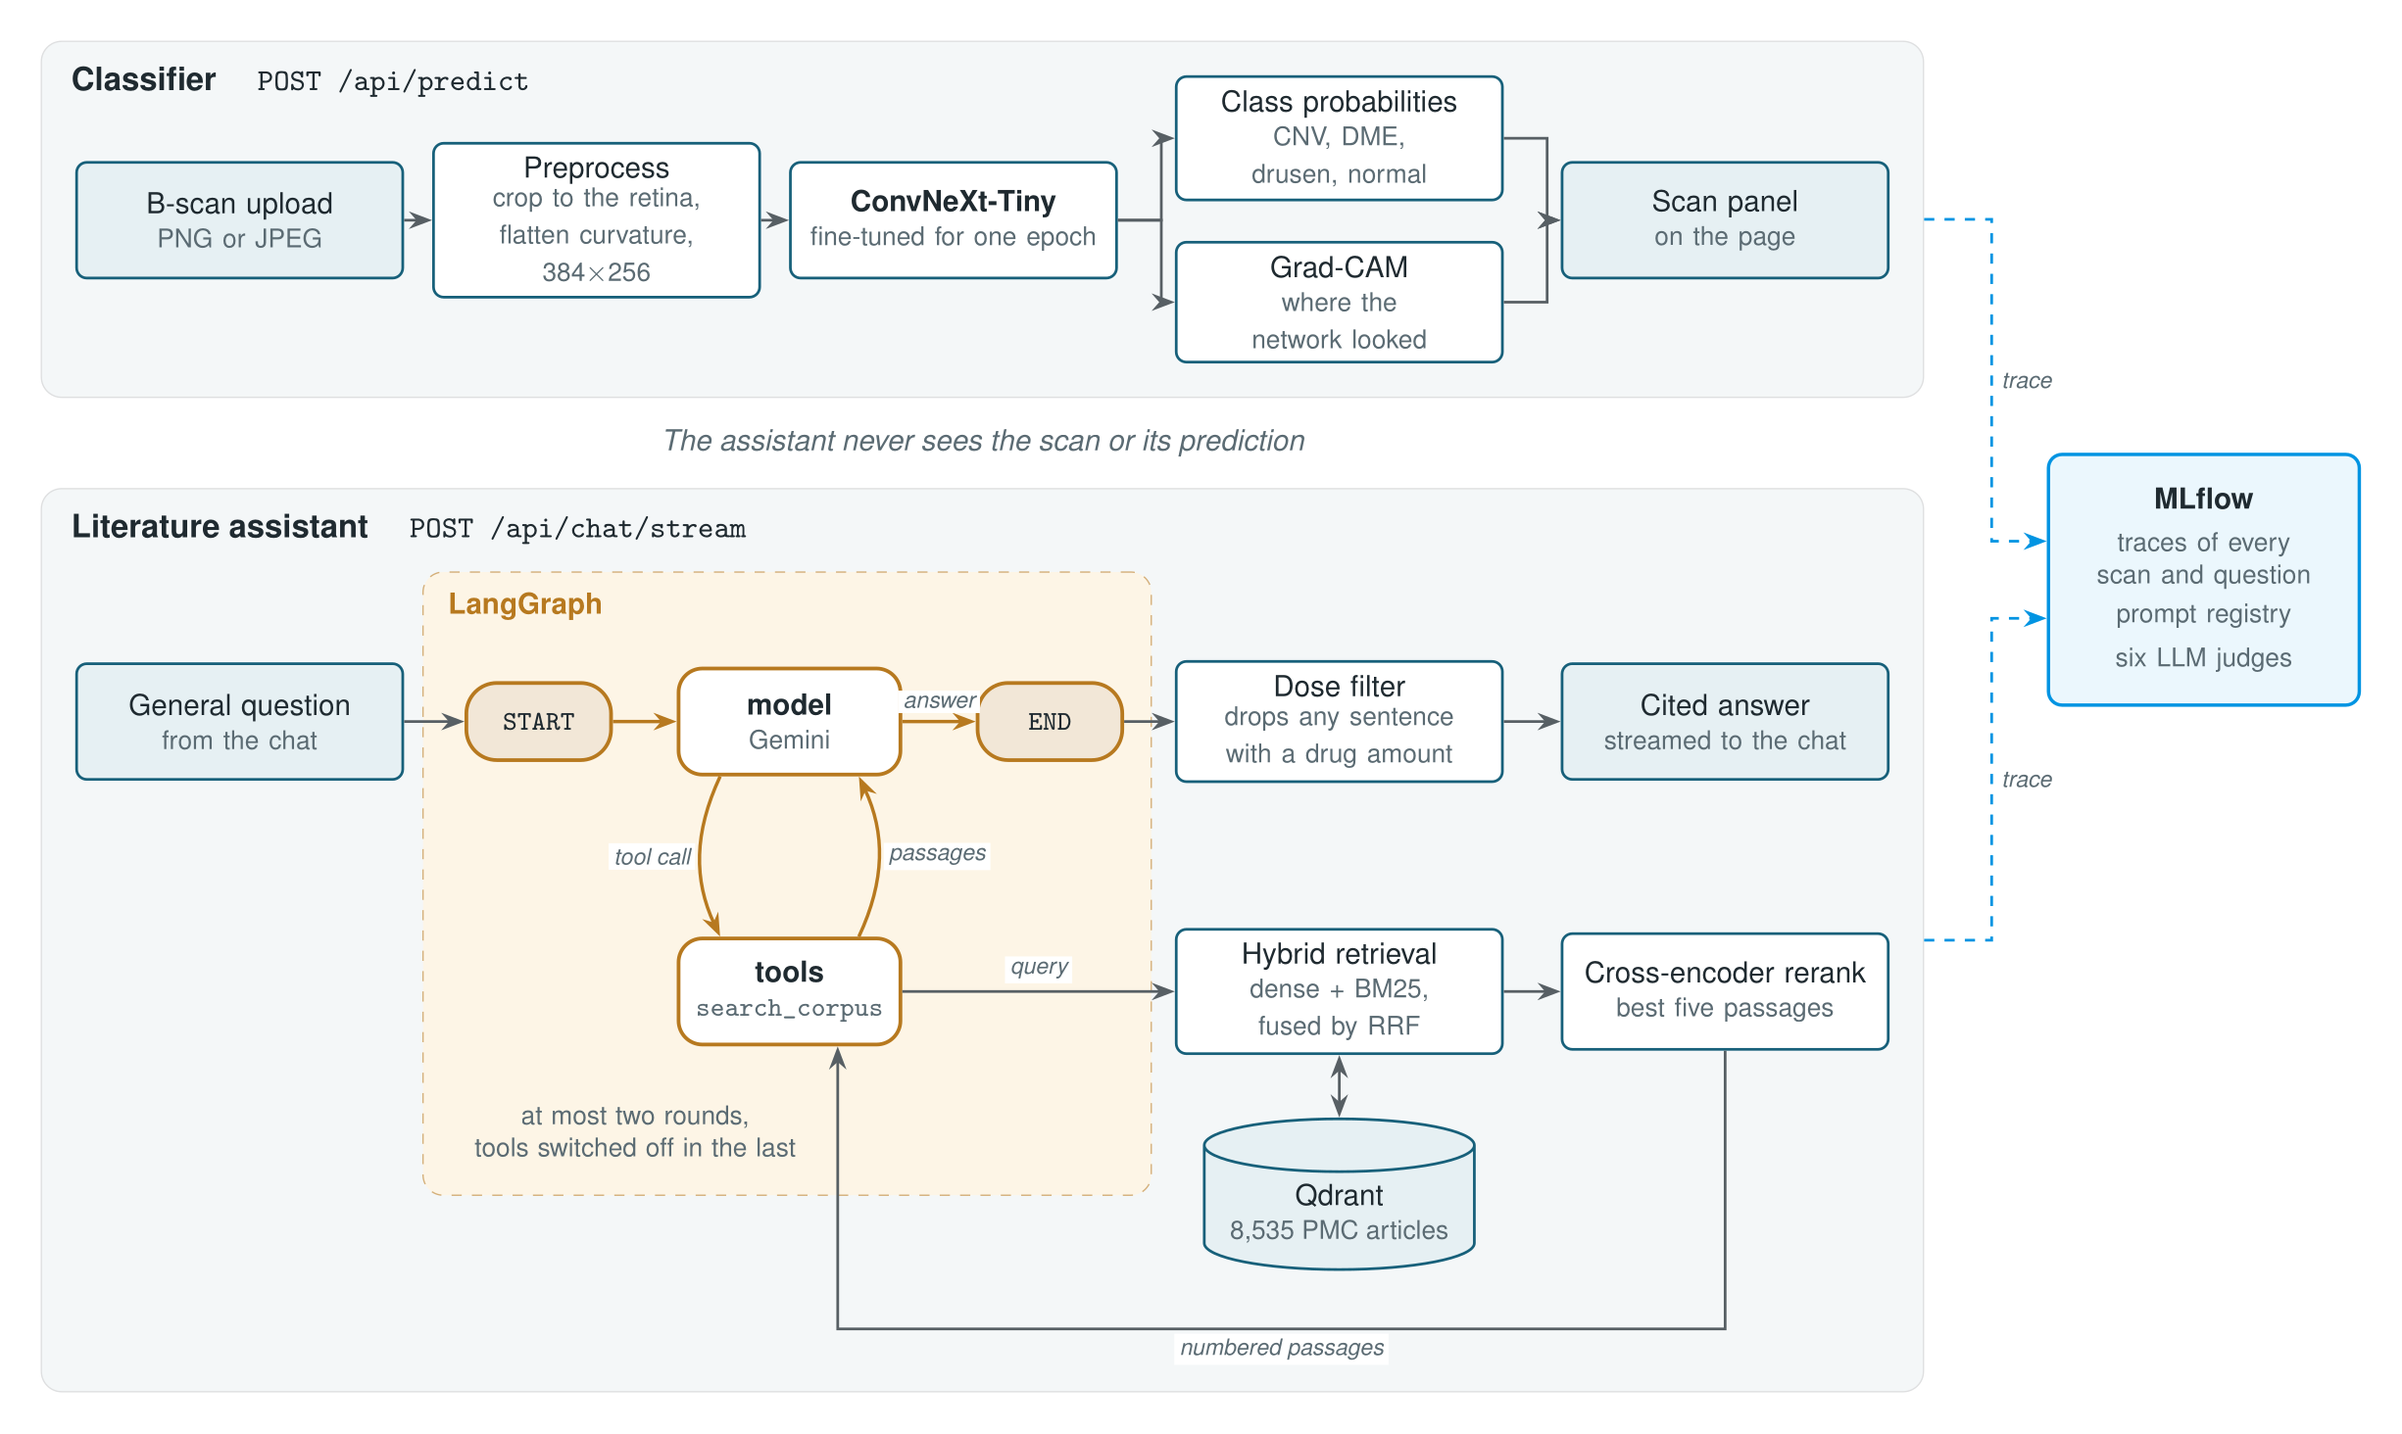
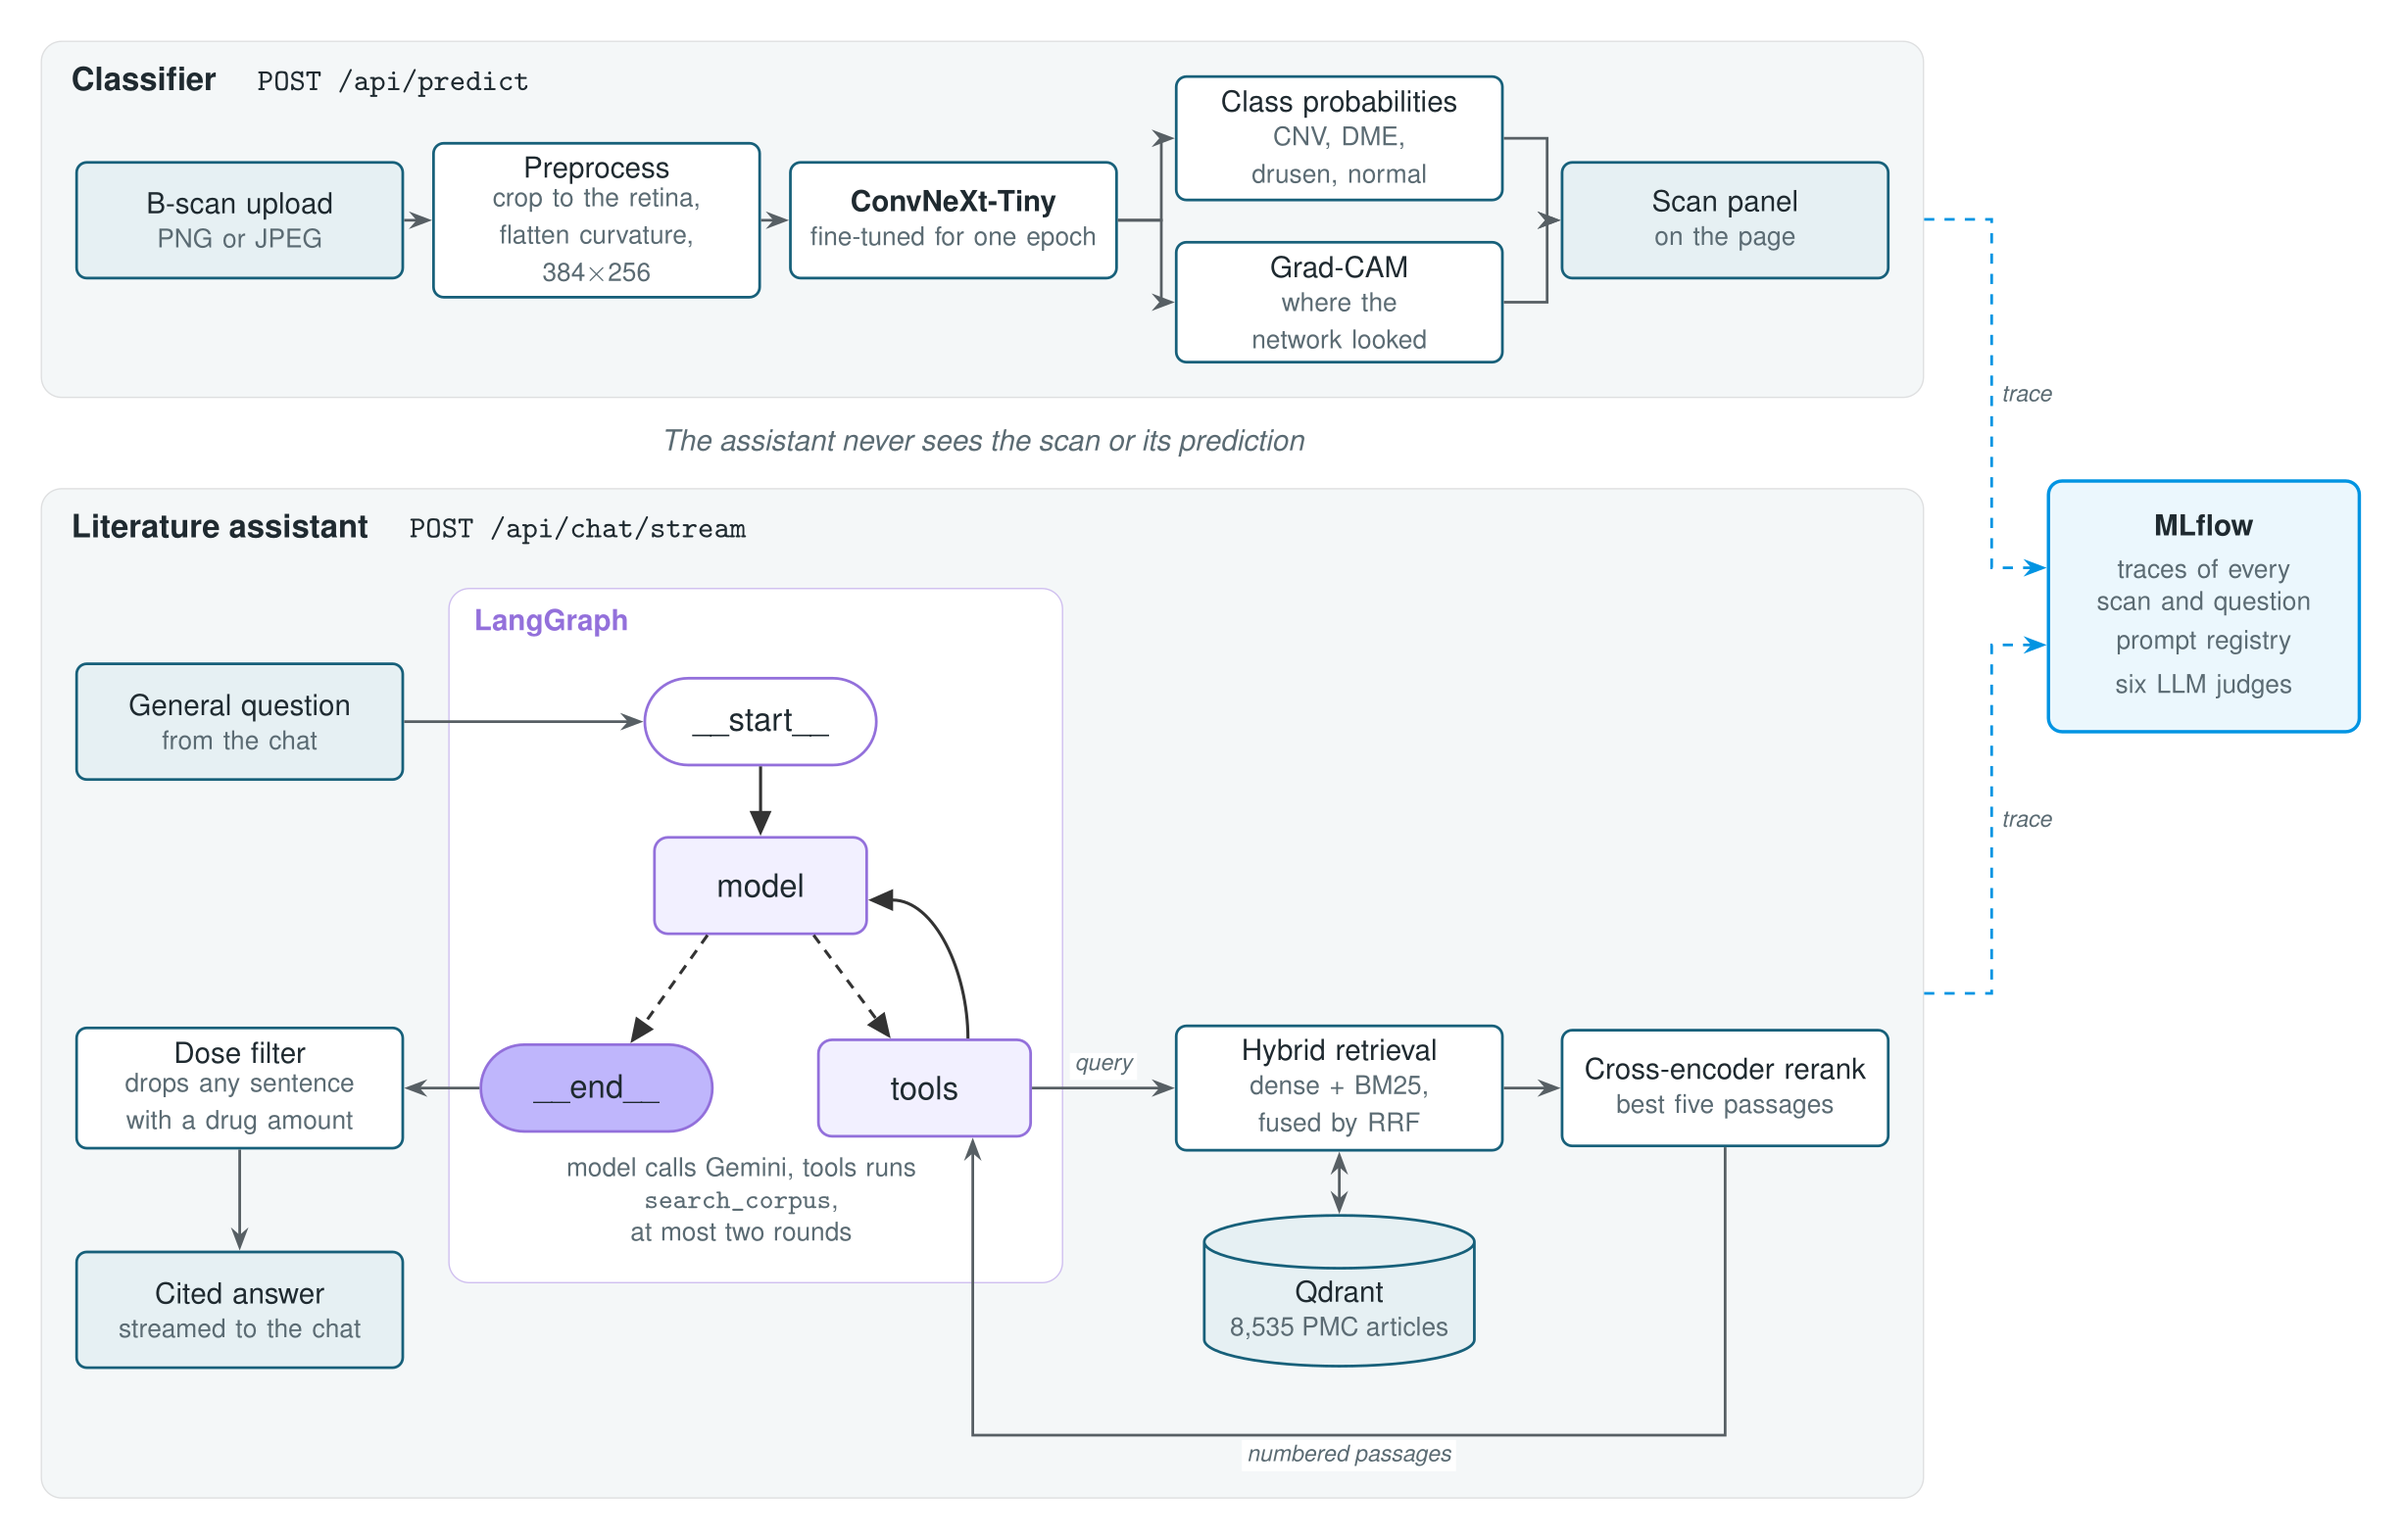
docs(readme): draw the LangGraph block the way LangGraph draws its graph

diff --git a/docs/architecture.tex b/docs/architecture.tex
@@ -15,8 +15,11 @@
 \definecolor{ink}{HTML}{1F2A30}
 \definecolor{muted}{HTML}{5B6B73}
 \definecolor{lane}{HTML}{F4F7F8}
-\definecolor{graph}{HTML}{B7791F}
-\definecolor{graphsoft}{HTML}{FDF5E6}
+% LangGraph's own drawing, as get_graph().draw_mermaid() styles it
+\definecolor{lgnode}{HTML}{F2F0FF}
+\definecolor{lgend}{HTML}{BFB6FC}
+\definecolor{lgline}{HTML}{9370DB}
+\definecolor{lgedge}{HTML}{333333}
 \definecolor{mlflow}{HTML}{0194E2}
 
 % The smaller grey line under a box's title
@@ -28,12 +31,14 @@
               inner sep=4pt, minimum height=12mm, text width=31mm, font=\small},
   io/.style={box, fill=accentsoft},
   note/.style={font=\footnotesize, text=muted},
-  gnode/.style={draw=graph, line width=1.1pt, rounded corners=7pt, fill=white, align=center,
-                minimum height=11mm, minimum width=23mm, font=\small},
-  term/.style={draw=graph, line width=1.1pt, rounded corners=9pt, fill=graph!18,
-               minimum height=8mm, minimum width=15mm, font=\footnotesize\ttfamily\bfseries},
+  gnode/.style={draw=lgline, line width=0.8pt, rounded corners=4pt, fill=lgnode, align=center,
+                minimum height=10mm, minimum width=22mm, font=\normalsize},
+  term/.style={draw=lgline, line width=0.8pt, rounded corners=4.5mm, fill=white,
+               minimum height=9mm, minimum width=24mm, font=\normalsize},
   arr/.style={-{Stealth[length=2.4mm]}, line width=0.8pt, draw=ink!75},
-  garr/.style={-{Stealth[length=2.4mm]}, line width=1pt, draw=graph},
+  % a fixed edge is solid, a conditional one dotted, as LangGraph draws them
+  garr/.style={-{Triangle[length=2.6mm, width=2.2mm]}, line width=0.9pt, draw=lgedge},
+  gcond/.style={garr, dash pattern=on 3pt off 2.5pt},
   lbl/.style={font=\scriptsize\itshape, text=muted, fill=white, inner sep=1.5pt},
   lanebox/.style={fill=lane, draw=ink!15, rounded corners=6pt, inner sep=10pt},
   lanetitle/.style={font=\bfseries, anchor=north west},
@@ -58,57 +63,58 @@
 \draw[arr] (cam.east) -- ++(0.45,0) |- (scanui.west);
 
 %% ---------------------------------------------------------------- assistant
+% The graph as LangGraph itself draws it (get_graph().draw_mermaid()): top to
+% bottom, __start__ to model, a dotted conditional edge from model to tools and to
+% __end__, and a solid edge from tools back to model.
 \node[io]   (q)     at (0,-5.2)    {General question\\[-1pt]{\sub from the chat}};
-\node[term] (start) at (3.1,-5.2)  {START};
-\node[gnode](model) at (5.7,-5.2)  {\textbf{model}\\[-1pt]{\sub Gemini}};
-\node[gnode](tools) at (5.7,-8.0)  {\textbf{tools}\\[-1pt]{\sub\ttfamily search\_corpus}};
-\node[term] (end)   at (8.4,-5.2)  {END};
+\node[term] (start) at (5.4,-5.2)  {\_\_start\_\_};
+\node[gnode](model) at (5.4,-6.9)  {model};
+\node[term, fill=lgend] (end) at (3.7,-9.0) {\_\_end\_\_};
+\node[gnode](tools) at (7.1,-9.0)  {tools};
 
-\draw[arr]  (q) -- (start);
-\draw[garr] (start) -- (model);
-\draw[garr] (model.south west) ++(0.45,0) coordinate (ms)
-            (ms) to[bend right=25] node[lbl, left=1pt] {tool call} ($(tools.north west)+(0.45,0)$);
-\draw[garr] ($(tools.north east)+(-0.45,0)$) to[bend right=25] node[lbl, right=1pt] {passages}
-            ($(model.south east)+(-0.45,0)$);
-\draw[garr] (model) -- node[lbl, above=2pt] {answer} (end);
+\draw[arr]   (q) -- (start);
+\draw[garr]  (start) -- (model);
+\draw[gcond] ($(model.south)+(-0.55,0)$) -- ($(end.north)+(0.35,0)$);
+\draw[gcond] ($(model.south)+(0.55,0)$) -- ($(tools.north)+(-0.35,0)$);
+\draw[garr]  ($(tools.north)+(0.45,0)$) to[out=90, in=0] ($(model.east)+(0,-0.15)$);
 
-\node[box]  (dose)  at (11.4,-5.2) {Dose filter\\[-1pt]{\sub drops any sentence\\with a drug amount}};
-\node[io]   (ans)   at (15.4,-5.2) {Cited answer\\[-1pt]{\sub streamed to the chat}};
+\node[note, align=center, text width=38mm] (rounds) at (5.2,-10.15)
+     {model calls Gemini, tools runs\\\texttt{search\_corpus}, at most two rounds};
+
+\node[box]  (dose)  at (0,-9.0)   {Dose filter\\[-1pt]{\sub drops any sentence\\with a drug amount}};
+\node[io]   (ans)   at (0,-11.3)  {Cited answer\\[-1pt]{\sub streamed to the chat}};
 \draw[arr] (end) -- (dose);
 \draw[arr] (dose) -- (ans);
 
 % the retrieval behind the tools node
-\node[box] (hybrid) at (11.4,-8.0)  {Hybrid retrieval\\[-1pt]{\sub dense + BM25, fused by RRF}};
-\node[box] (rerank) at (15.4,-8.0) {Cross-encoder rerank\\[-1pt]{\sub best five passages}};
+\node[box] (hybrid) at (11.4,-9.0)  {Hybrid retrieval\\[-1pt]{\sub dense + BM25, fused by RRF}};
+\node[box] (rerank) at (15.4,-9.0) {Cross-encoder rerank\\[-1pt]{\sub best five passages}};
 \node[cylinder, shape border rotate=90, aspect=0.22, draw=accent, line width=0.8pt, fill=accentsoft,
       minimum width=28mm, minimum height=13mm, align=center, font=\small]
-      (qdrant) at (11.4,-10.3) {Qdrant\\[-1pt]{\sub 8,535 PMC articles}};
+      (qdrant) at (11.4,-11.3) {Qdrant\\[-1pt]{\sub 8,535 PMC articles}};
 
 \draw[arr] (tools) -- node[lbl, above=2pt] {query} (hybrid);
 \draw[arr] (hybrid) -- (rerank);
 \draw[arr, {Stealth[length=2.4mm]}-{Stealth[length=2.4mm]}] (hybrid) -- (qdrant);
 % the passages go back to the tools node below Qdrant, so no line crosses it
-\draw[arr] (rerank.south) -- (15.4,-11.5) -| node[lbl, pos=0.25, below=1pt] {numbered passages}
+\draw[arr] (rerank.south) -- (15.4,-12.6) -| node[lbl, pos=0.25, below=1pt] {numbered passages}
            ($(tools.south)+(0.5,0)$);
-
-\node[note, align=center, text width=36mm] (rounds) at (4.1,-9.45)
-     {at most two rounds,\\tools switched off in the last};
 
 %% ---------------------------------------------------------------- lanes
 % room above each lane's contents for its title
 \coordinate (aTop) at ($(upload.north west)+(0,0.75)$);
 \coordinate (bTop) at ($(q.north west)+(0,1.45)$);
-\coordinate (bBot) at (0,-11.8);
-\coordinate (gTop) at ($(model.north)+(0,0.7)$);
+\coordinate (bBot) at (0,-12.9);
+\coordinate (gTop) at ($(start.north)+(0,0.6)$);
 \begin{scope}[on background layer]
   \node[lanebox, fit=(upload)(probs)(cam)(scanui)(aTop)] (laneA) {};
   \node[lanebox, fit=(q)(qdrant)(ans)(rerank)(bTop)(bBot)] (laneB) {};
-  \node[fill=graphsoft, draw=graph!60, dashed, rounded corners=6pt, inner sep=8pt,
+  \node[fill=white, draw=lgline!45, rounded corners=6pt, inner sep=9pt,
         fit=(start)(model)(tools)(end)(gTop)(rounds)] (lg) {};
 \end{scope}
 \node[lanetitle] at ($(laneA.north west)+(0.2,-0.15)$) {Classifier \quad\mdseries\small\ttfamily POST /api/predict};
 \node[lanetitle] at ($(laneB.north west)+(0.2,-0.15)$) {Literature assistant \quad\mdseries\small\ttfamily POST /api/chat/stream};
-\node[font=\small\bfseries, text=graph, anchor=north west] at ($(lg.north west)+(0.15,-0.1)$) {LangGraph};
+\node[font=\small\bfseries, text=lgline, anchor=north west] at ($(lg.north west)+(0.15,-0.1)$) {LangGraph};
 
 \node[font=\small\itshape, text=muted] at ($(laneA.south)!0.5!(laneB.north)$)
      {The assistant never sees the scan or its prediction};

diff --git a/README.md b/README.md
@@ -82,9 +82,11 @@ section-level chunks with EmbeddingGemma.
 
 ## How it works
 
-![Architecture: the classifier pipeline from upload through preprocessing and ConvNeXt-Tiny to the class probabilities and Grad-CAM; the literature assistant as a LangGraph graph, START to the model node, which calls the tools node for search_corpus (hybrid retrieval over Qdrant, then a cross-encoder rerank) and returns to the model, then END, the dose filter and the cited answer; both traced to MLflow](docs/architecture.png)
+![Architecture: the classifier pipeline from upload through preprocessing and ConvNeXt-Tiny to the class probabilities and Grad-CAM; the literature assistant as LangGraph draws its graph, __start__ to the model node, with conditional edges to the tools node for search_corpus (hybrid retrieval over Qdrant, then a cross-encoder rerank) and to __end__, and a fixed edge from tools back to model; then the dose filter and the cited answer; both traced to MLflow](docs/architecture.png)
 
-The assistant is a LangGraph graph of two nodes in a loop. The **model** node asks
+The assistant is a LangGraph graph of two nodes in a loop, drawn the way LangGraph's
+own `get_graph().draw_mermaid()` draws it: solid edges always run, dotted ones are
+the conditional branches the model chooses between. The **model** node asks
 Gemini for the next step. When it calls `search_corpus`, the **tools** node runs the
 hybrid search and the reranker, numbers the passages and hands them back. The model
 then writes the answer, with tool calls switched off on the last of at most two
